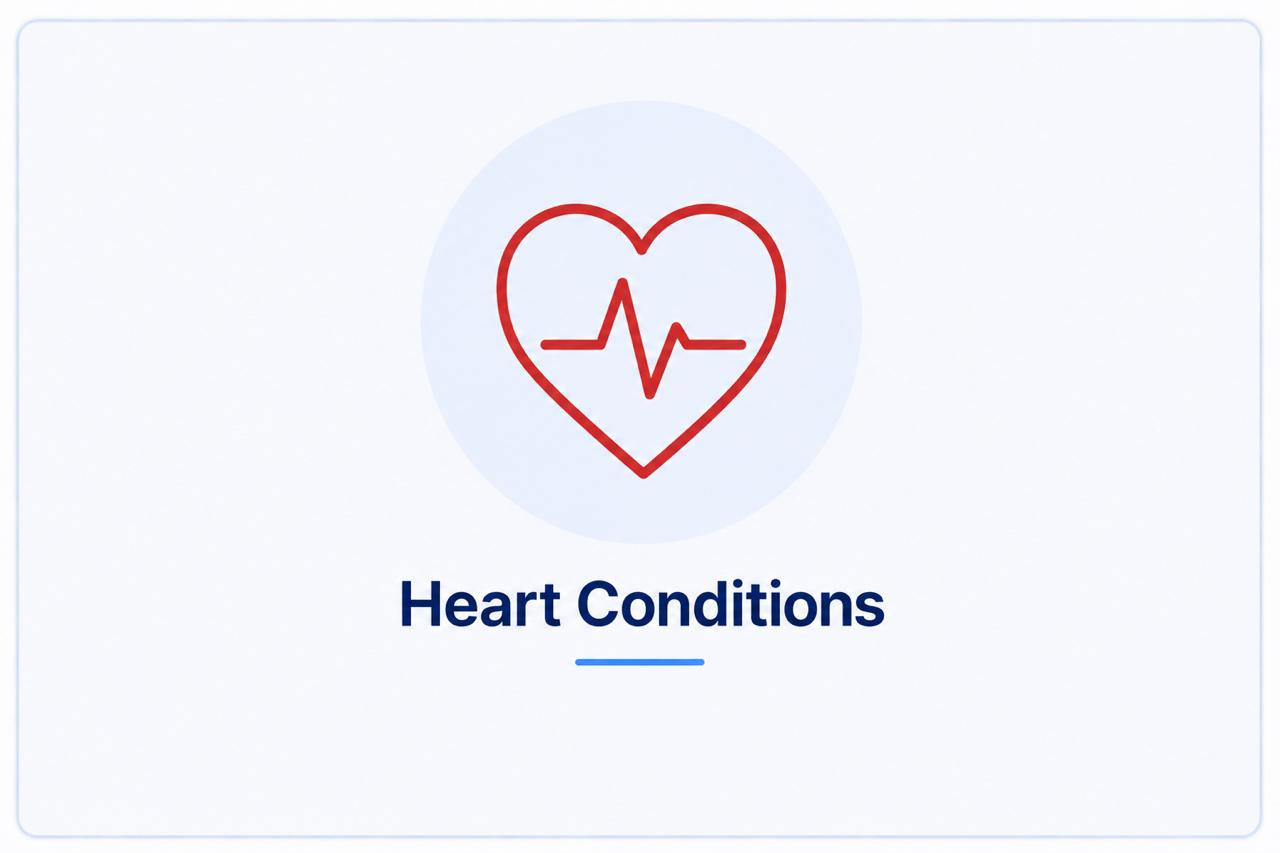
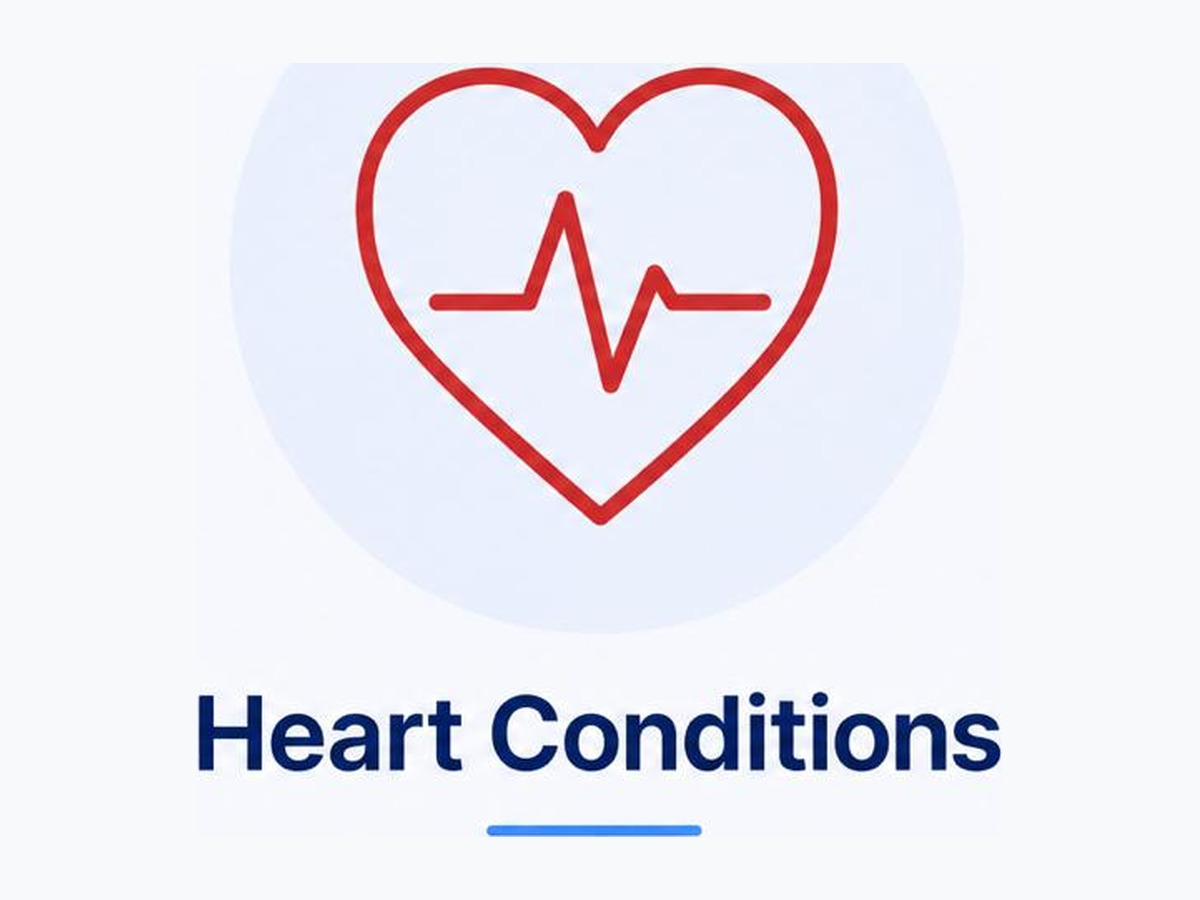
Enlarge Heart Health Library cards to fill the section
- Reprocess all six illustrations to a uniform 1200x900 (4:3) with the
  artwork filling ~86% (was ~57%), so cards no longer look sparse.
- Switch tile aspect to 4:3 and widen the library row (container--wide,
  1340px) so the six cards are noticeably bigger and cover the space.

diff --git a/public/css/app.css b/public/css/app.css
@@ -38,6 +38,7 @@ h2 { font-size: clamp(1.4rem, 3vw, 2rem); }
 p { margin: 0 0 1rem; }
 
 .container { width: 100%; max-width: var(--maxw); margin: 0 auto; padding: 0 1.25rem; }
+.container--wide { max-width: 1340px; }
 .section { padding: 3.5rem 0; }
 .section--soft { background: var(--bg-soft); }
 .section__head { max-width: 680px; margin: 0 auto 2.25rem; text-align: center; }
@@ -136,9 +137,9 @@ p { margin: 0 0 1rem; }
 .lib-tile { display: block; color: inherit; transition: .18s ease; }
 .lib-tile:hover { text-decoration: none; transform: translateY(-4px); }
 .lib-tile:hover .lib-tile__img { box-shadow: var(--shadow-lg); }
-/* All six illustrations are normalised to 1280x853 (3:2), so cover fills the
-   tile edge-to-edge with no cropping and no letterboxing. */
-.lib-tile__img { width: 100%; aspect-ratio: 3 / 2; object-fit: cover; border-radius: var(--radius); box-shadow: var(--shadow); background: #fff; transition: .18s ease; }
+/* All six illustrations are normalised to 1200x900 (4:3) with the artwork
+   filling ~86%, so cover fills the tile edge-to-edge, no cropping/letterbox. */
+.lib-tile__img { width: 100%; aspect-ratio: 4 / 3; object-fit: cover; border-radius: var(--radius); box-shadow: var(--shadow); background: #fff; transition: .18s ease; }
 .lib-tile__cap { text-align: center; padding: .6rem .3rem 0; }
 .lib-tile__cap h3 { font-size: 1rem; margin: 0 0 .2rem; }
 .lib-tile__cap p { color: var(--muted); font-size: .78rem; line-height: 1.4; margin: 0; }

diff --git a/resources/views/pages/home.blade.php b/resources/views/pages/home.blade.php
@@ -58,7 +58,7 @@
     {{-- ── Heart Health Library ────────────────────────────── --}}
     @if($sections->isNotEmpty())
         <section class="section section--soft">
-            <div class="container">
+            <div class="container container--wide">
                 <div class="section__head">
                     <h2>Heart Health Library</h2>
                     <p>Trusted information to help you understand, prevent and manage heart conditions.</p>
